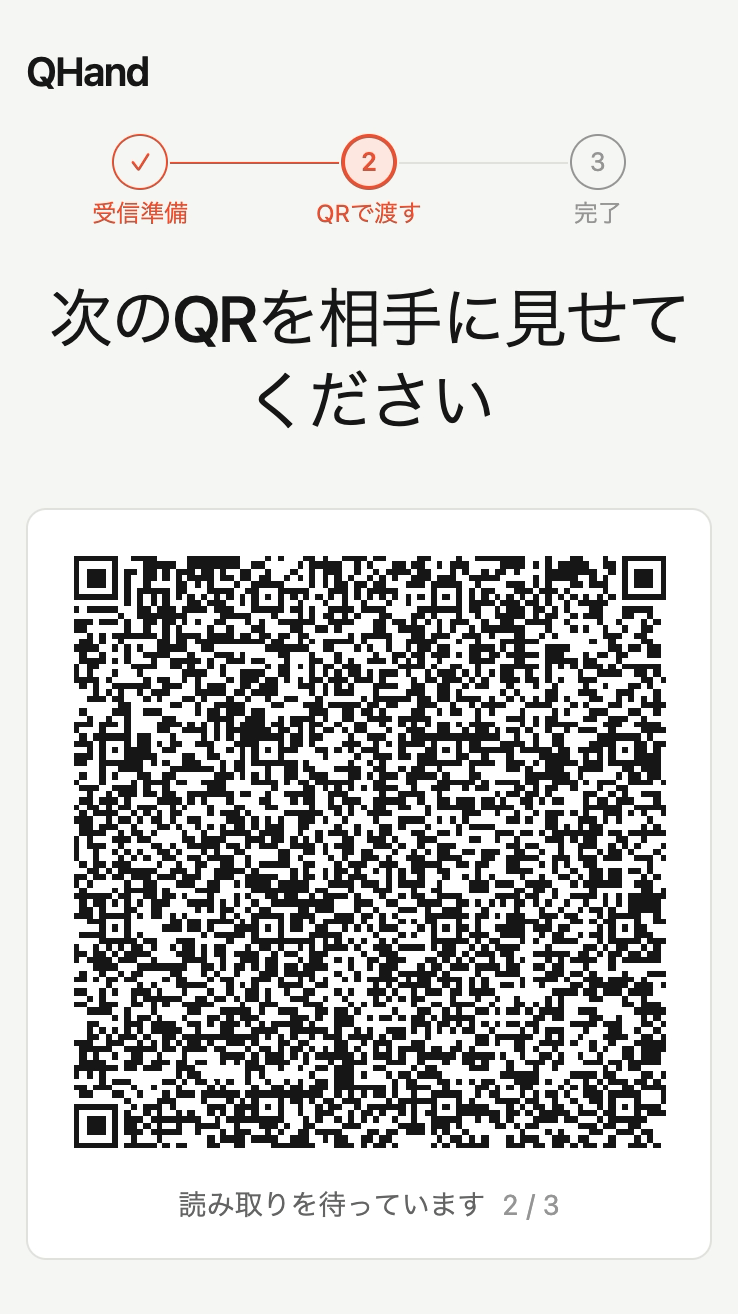
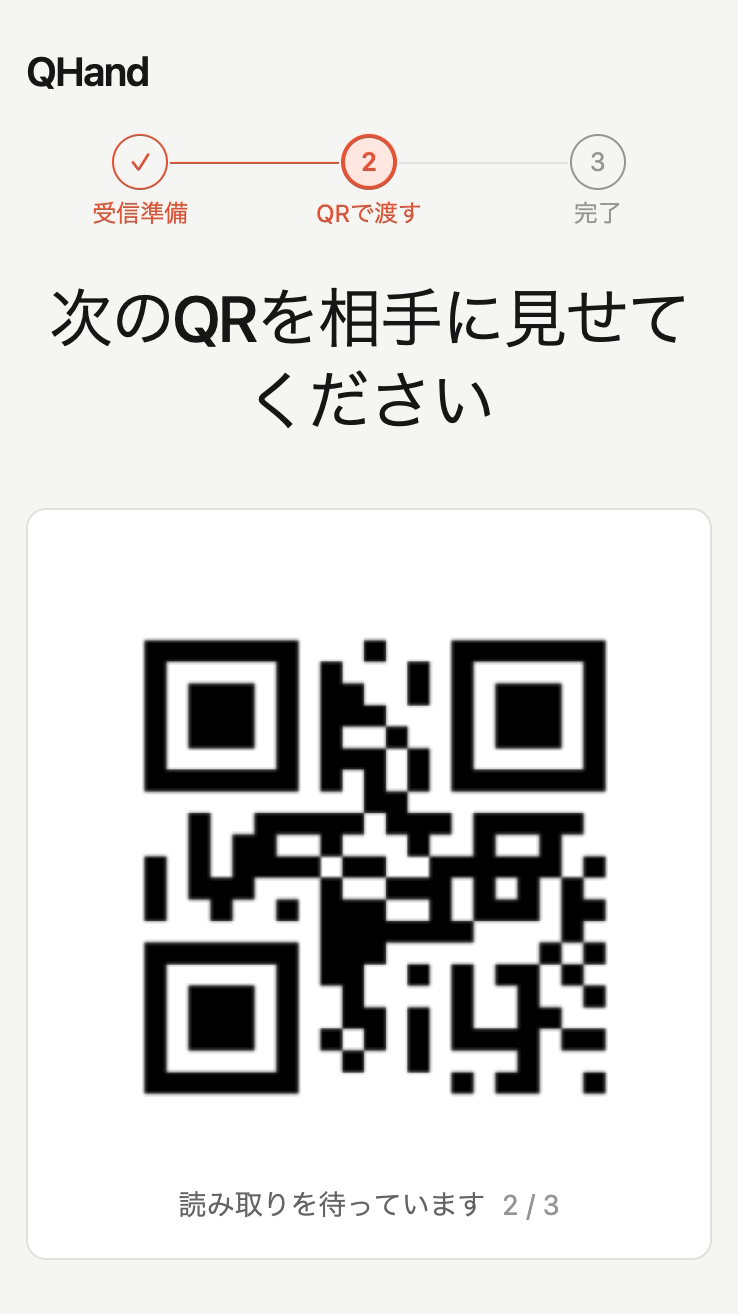
画像変更

Changed region(s): [[0.0935, 0.4056, 0.9038, 0.8737]]

diff --git a/src/main.ts b/src/main.ts
@@ -45,7 +45,7 @@ const flowScreens: Record<
       alt: "渡す側に開始QRが表示されたQHand画面。",
     },
     receiver: {
-      file: "handoff-receiver-camera-placeholder.svg",
+      file: "handoff-receiver-camera-placeholder.png",
       alt: "相手の標準カメラで、送信側に表示された最初のQRを読み取るイメージ。",
     },
   },
